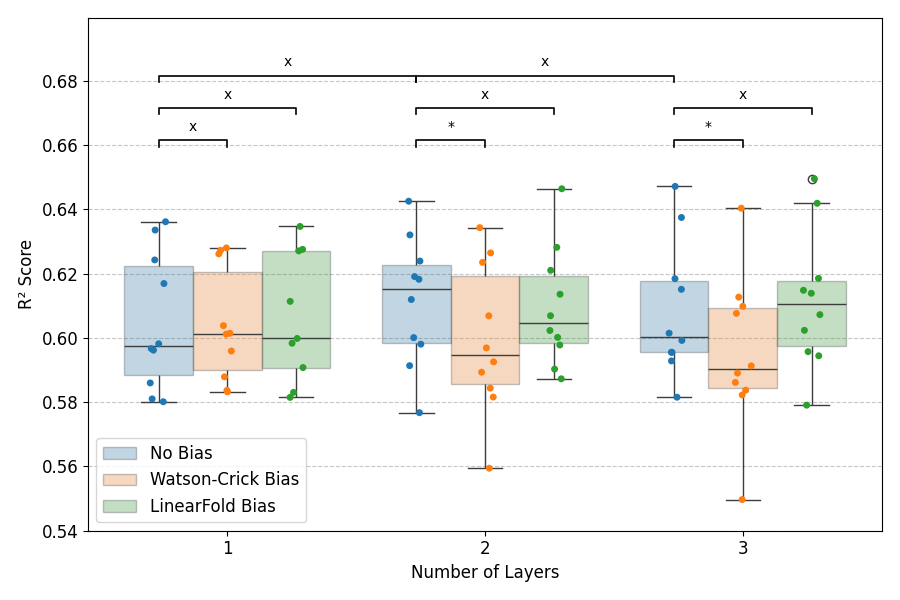
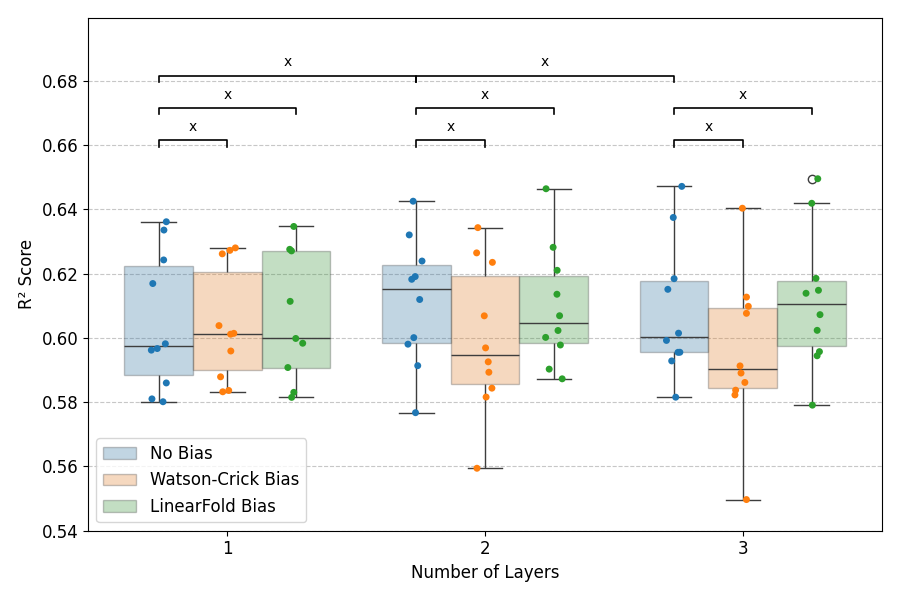
add bonferroni correction

diff --git a/boxplot.py b/boxplot.py
@@ -80,23 +80,6 @@ def nadeau_bengio_ttest(v1, v2):
     return p
 
 
-def sig_label(vals1, vals2):
-    """Nadeau-Bengio corrected t-test; returns '**', '*', or 'x'."""
-    mask = ~(np.isnan(vals1) | np.isnan(vals2))
-    v1, v2 = vals1[mask], vals2[mask]
-    if len(v1) < 2:
-        return "x (p=N/A)"
-    p = nadeau_bengio_ttest(v1, v2)
-    if p <= 0.01:
-        label = "**"
-    elif p <= 0.05:
-        label = "*"
-    else:
-        label = "x"
-    #return label + f" (p={p:.3g})"
-    return label
-
-
 def group_vals(mode, length):
     """R² values per test_fold, sorted so pairing is consistent."""
     return (df[(df["mode"] == mode) & (df["Maximum Sequence Length"] == length)]
@@ -125,17 +108,39 @@ pairs = [
 
 ]
 
+# Collect raw p-values for all pairs, then apply Bonferroni correction.
+n_tests = len(pairs)
+raw_pvals = []
+for m1, l1, m2, l2, _ in pairs:
+    v1, v2 = group_vals(m1, l1), group_vals(m2, l2)
+    mask = ~(np.isnan(v1) | np.isnan(v2))
+    v1, v2 = v1[mask], v2[mask]
+    raw_pvals.append(nadeau_bengio_ttest(v1, v2) if len(v1) >= 2 else np.nan)
+
+corrected_pvals = [min(p * n_tests, 1.0) if not np.isnan(p) else np.nan
+                   for p in raw_pvals]
+
+
+def sig_label(p):
+    if np.isnan(p):
+        return "x (p=N/A)"
+    if p <= 0.01:
+        return "**"
+    if p <= 0.05:
+        return "*"
+    return "x"
+
+
 relevant_mask = df["mode"].isin(["UTR5 + CDS", "UTR5 + CDS + UTR3"])
 y_data_max = df[relevant_mask]["eval_r2_mean_TE"].max()
 y_start = y_data_max + 0.01
 level_step = 0.02
 
-for m1, l1, m2, l2, level in pairs:
+for (m1, l1, m2, l2, level), p_corr in zip(pairs, corrected_pvals):
     x1 = box_x(m1, l1)
     x2 = box_x(m2, l2)
     y = y_start + level * level_step
-    label = sig_label(group_vals(m1, l1), group_vals(m2, l2))
-    draw_sig_bar(ax, x1, x2, y, label)
+    draw_sig_bar(ax, x1, x2, y, sig_label(p_corr))
 
 # Expand y-axis to accommodate the top-most bar + label
 ax.set_ylim(top=y_start + 2 * level_step + 0.1)

diff --git a/boxplot_bias.py b/boxplot_bias.py
@@ -75,20 +75,6 @@ def nadeau_bengio_ttest(v1, v2):
     return p
 
 
-def sig_label(vals1, vals2):
-    """Nadeau-Bengio corrected t-test; returns '**', '*', or 'x'."""
-    mask = ~(np.isnan(vals1) | np.isnan(vals2))
-    v1, v2 = vals1[mask], vals2[mask]
-    if len(v1) < 2:
-        return "x (p=N/A)"
-    p = nadeau_bengio_ttest(v1, v2)
-    if p <= 0.01:
-        return "**"
-    elif p <= 0.05:
-        return "*"
-    return "x"
-
-
 def group_vals(n_layers, bias):
     return (df[(df["Number of Layers"] == n_layers) & (df["Bias Type"] == bias)]
             .sort_values("test_fold")["eval_r2_mean_TE"]
@@ -115,15 +101,38 @@ pairs = [
     (1, "No Bias", 2, "No Bias", 2),
 ]
 
+# Collect raw p-values for all pairs, then apply Bonferroni correction.
+n_tests = len(pairs)
+raw_pvals = []
+for n1, b1, n2, b2, _ in pairs:
+    v1, v2 = group_vals(n1, b1), group_vals(n2, b2)
+    mask = ~(np.isnan(v1) | np.isnan(v2))
+    v1, v2 = v1[mask], v2[mask]
+    raw_pvals.append(nadeau_bengio_ttest(v1, v2) if len(v1) >= 2 else np.nan)
+
+corrected_pvals = [min(p * n_tests, 1.0) if not np.isnan(p) else np.nan
+                   for p in raw_pvals]
+
+
+def sig_label(p):
+    if np.isnan(p):
+        return "x (p=N/A)"
+    if p <= 0.01:
+        return "**"
+    if p <= 0.05:
+        return "*"
+    return "x"
+
+
 y_data_max = df["eval_r2_mean_TE"].max()
 y_start    = y_data_max + 0.01
 level_step = 0.01
 
-for n1, b1, n2, b2, level in pairs:
+for (n1, b1, n2, b2, level), p_corr in zip(pairs, corrected_pvals):
     x1 = box_x(n1, b1)
     x2 = box_x(n2, b2)
     y  = y_start + level * level_step
-    draw_sig_bar(ax, x1, x2, y, sig_label(group_vals(n1, b1), group_vals(n2, b2)), h=0.002)
+    draw_sig_bar(ax, x1, x2, y, sig_label(p_corr), h=0.002)
 
 ax.set_ylim(top=y_start + 2 * level_step + 0.02, bottom=0.54)
 